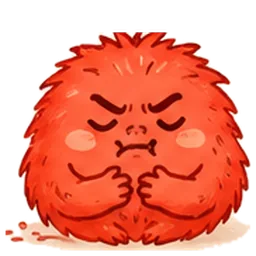
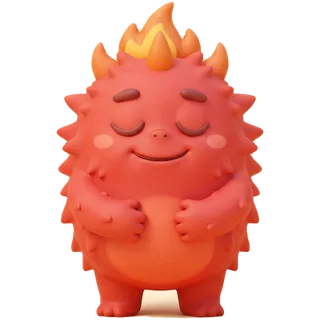
v11：生氣怪獸換成 3D 新圖（4 階段成長＋4 種情緒大小＋冷靜下來）
- 新增 img/angryg1-4.webp 成長成熟圖，徽章畫在圖裡，不再疊 emoji
- angry0-4 換成 3D 版
- 圖鑑「牠變大的時候」加上「冷靜下來」
- GROWN 清單：之後每換一隻怪獸就加進去

Claude-Session: https://claude.ai/code/session_01CEkvYQrBkbWEs5gG6BXqD9

diff --git a/index.html b/index.html
@@ -116,7 +116,7 @@ h1 small{display:block;font-size:.8rem;color:var(--soft);letter-spacing:0;font-f
 .evocell small{display:block;font-size:.72rem;line-height:1.3}
 .evocell.now{background:#FFF3C4;box-shadow:0 0 0 2px #FFD166}
 .evocell.lock .mon{filter:brightness(0) opacity(.18)}
-.evocell.mood{background:#FFF0EC}
+.evocell.mood{background:#FFF0EC}.evocell.calm{background:#E8F7EE}
 .shrinkIn{animation:shrinkIn .9s cubic-bezier(.3,1.4,.5,1)}.growIn{animation:shrinkIn .5s ease-out}
 @keyframes shrinkIn{from{transform:scale(var(--from))}to{transform:scale(1)}}
 .morph{position:relative;width:150px;height:150px;margin:0 auto}.morph>div{position:absolute;inset:0}
@@ -770,6 +770,8 @@ const SIZES=[{n:'小小的',s:.74},{n:'有一點',s:.86},{n:'中中的',s:.96},{
 const moodOf=n=>[1,1,2,3,4,4][n]||3;
 const BADGE={angry:['🚦','紅綠燈徽章','生氣時會先停一下'],sad:['☂','小雨傘','難過時會照顧自己'],defiant:['🏅','進步獎牌','跟昨天的自己比'],
   stuck:['🚩','一步一步旗','把難事切成小步驟'],scared:['🛡','勇氣盾牌','先試一小步'],wronged:['💬','說話泡泡','說出自己的想法']};
+/* 已換成 3D 新圖、有 4 階段成長圖的怪獸（徽章已畫在圖裡，不再疊 emoji） */
+const GROWN=new Set(['angry']);
 const IMG=(k,st)=>`img/${k}${st}.webp`;
 function nextOf(xp){const l=lvOf(xp);if(l>=LEVELS.length)return {pct:100,need:0};const a=LEVELS[l-1],b=LEVELS[l];return {pct:Math.round((xp-a)/(b-a)*100),need:b-xp}}
 const HEROES={fox:{name:'小狐狸',c:'#F39A4B'},bear:{name:'小熊',c:'#B07A52'},rabbit:{name:'小兔子',c:'#E9DDF2'},cat:{name:'小貓',c:'#9AA3B5'}};
@@ -842,11 +844,11 @@ function monster(kind,size=110,cls='',opt={}){
   const mood=opt.mood||0;const grow=mood?0:(opt.grow||stageOf(level));
   const st=mood;const sc=mood?SIZES[mood-1].s:STAGES[grow-1].s;const w=136*sc,x=60-w/2,y=124-w;
   const dy=y+w*.17-10;
-  const bd=BADGE[kind];const badge=grow>=2&&bd?`<g transform="translate(${(60+w*.3).toFixed(1)} ${(124-w*.3).toFixed(1)}) scale(${grow>=4?1.25:grow>=3?1.1:1})"><circle r="13" fill="#fff" stroke="${c}" stroke-width="3"/><text y="5.5" text-anchor="middle" font-size="15">${bd[0]}</text></g>`:'';
+  const bd=BADGE[kind];const badge=grow>=2&&bd&&!GROWN.has(kind)?`<g transform="translate(${(60+w*.3).toFixed(1)} ${(124-w*.3).toFixed(1)}) scale(${grow>=4?1.25:grow>=3?1.1:1})"><circle r="13" fill="#fff" stroke="${c}" stroke-width="3"/><text y="5.5" text-anchor="middle" font-size="15">${bd[0]}</text></g>`:'';
   return `<svg class="mon ${cls}" width="${size}" height="${size}" viewBox="-8 -22 136 150" aria-label="${e.name}${mood?' '+SIZES[mood-1].n:' '+STAGES[grow-1].n}">
     ${aura}
     <ellipse cx="60" cy="121" rx="${w*.36}" ry="5" fill="${c}" opacity=".18"/>
-    <image href="${IMG(kind,st)}" x="${x}" y="${y}" width="${w}" height="${w}"/>
+    <image href="${mood||!GROWN.has(kind)?IMG(kind,st):`img/${kind}g${grow}.webp`}" x="${x}" y="${y}" width="${w}" height="${w}"/>
     <g transform="translate(0 ${dy.toFixed(1)})">${eq.neck&&ACC[eq.neck]?`<g transform="translate(0 ${(w*.5).toFixed(1)})">${ACC[eq.neck]}</g>`:''}${eq.head&&ACC[eq.head]?ACC[eq.head]:''}</g>${badge}${sparks}
   </svg>`;
 }
@@ -1746,7 +1748,7 @@ function renderMD(){const k=S.mdK||'angry',e=EMO[k],xp=store.xp[k]||0,l=lvOf(xp)
   const age=S.age||'mid';
   $('#mdBody').innerHTML=`<h4>🌱 成長進化</h4><div class="evorow">${STAGES.map((t,i)=>`<div class="evocell ${i+1>cur?'lock':''} ${i+1===cur?'now':''}">${monster(k,66,'',{grow:i+1,level:1,eq:{head:null,neck:null}})}<small>${t.n}</small><small>${i+1>cur?'🔒 Lv.'+t.from:i+1===cur?'現在':'✓'}</small></div>`).join('')}</div>
     <p class="hint" style="text-align:left">每次陪牠冷靜，牠就會長大、變得更成熟。長大後會學會「${BADGE[k][0]} ${BADGE[k][1]}」：${BADGE[k][2]}。</p>
-    <h4>🌡 牠變大的時候</h4><div class="evorow">${SIZES.map((t,i)=>`<div class="evocell mood">${monster(k,58,'',{mood:i+1,level:1,eq:{head:null,neck:null}})}<small>${t.n}</small></div>`).join('')}</div>
+    <h4>🌡 牠變大的時候</h4><div class="evorow">${SIZES.map((t,i)=>`<div class="evocell mood">${monster(k,58,'',{mood:i+1,level:1,eq:{head:null,neck:null}})}<small>${t.n}</small></div>`).join('')}<div class="evocell calm"><svg class="mon" width="58" height="58" viewBox="-8 -22 136 150"><image href="img/${k}0.webp" x="-4" y="-8" width="128" height="128"/></svg><small>冷靜下來</small></div></div>
     <p class="hint" style="text-align:left">情緒越大，牠看起來越兇，這是在告訴你「我很不舒服」。冷靜下來，牠就會變回溫柔的樣子。</p>
     <h4>🔎 牠什麼時候會出現？</h4><p>${when}</p>
     <h4>🫀 牠來的時候，身體會怎樣？</h4><p>${body}</p>
